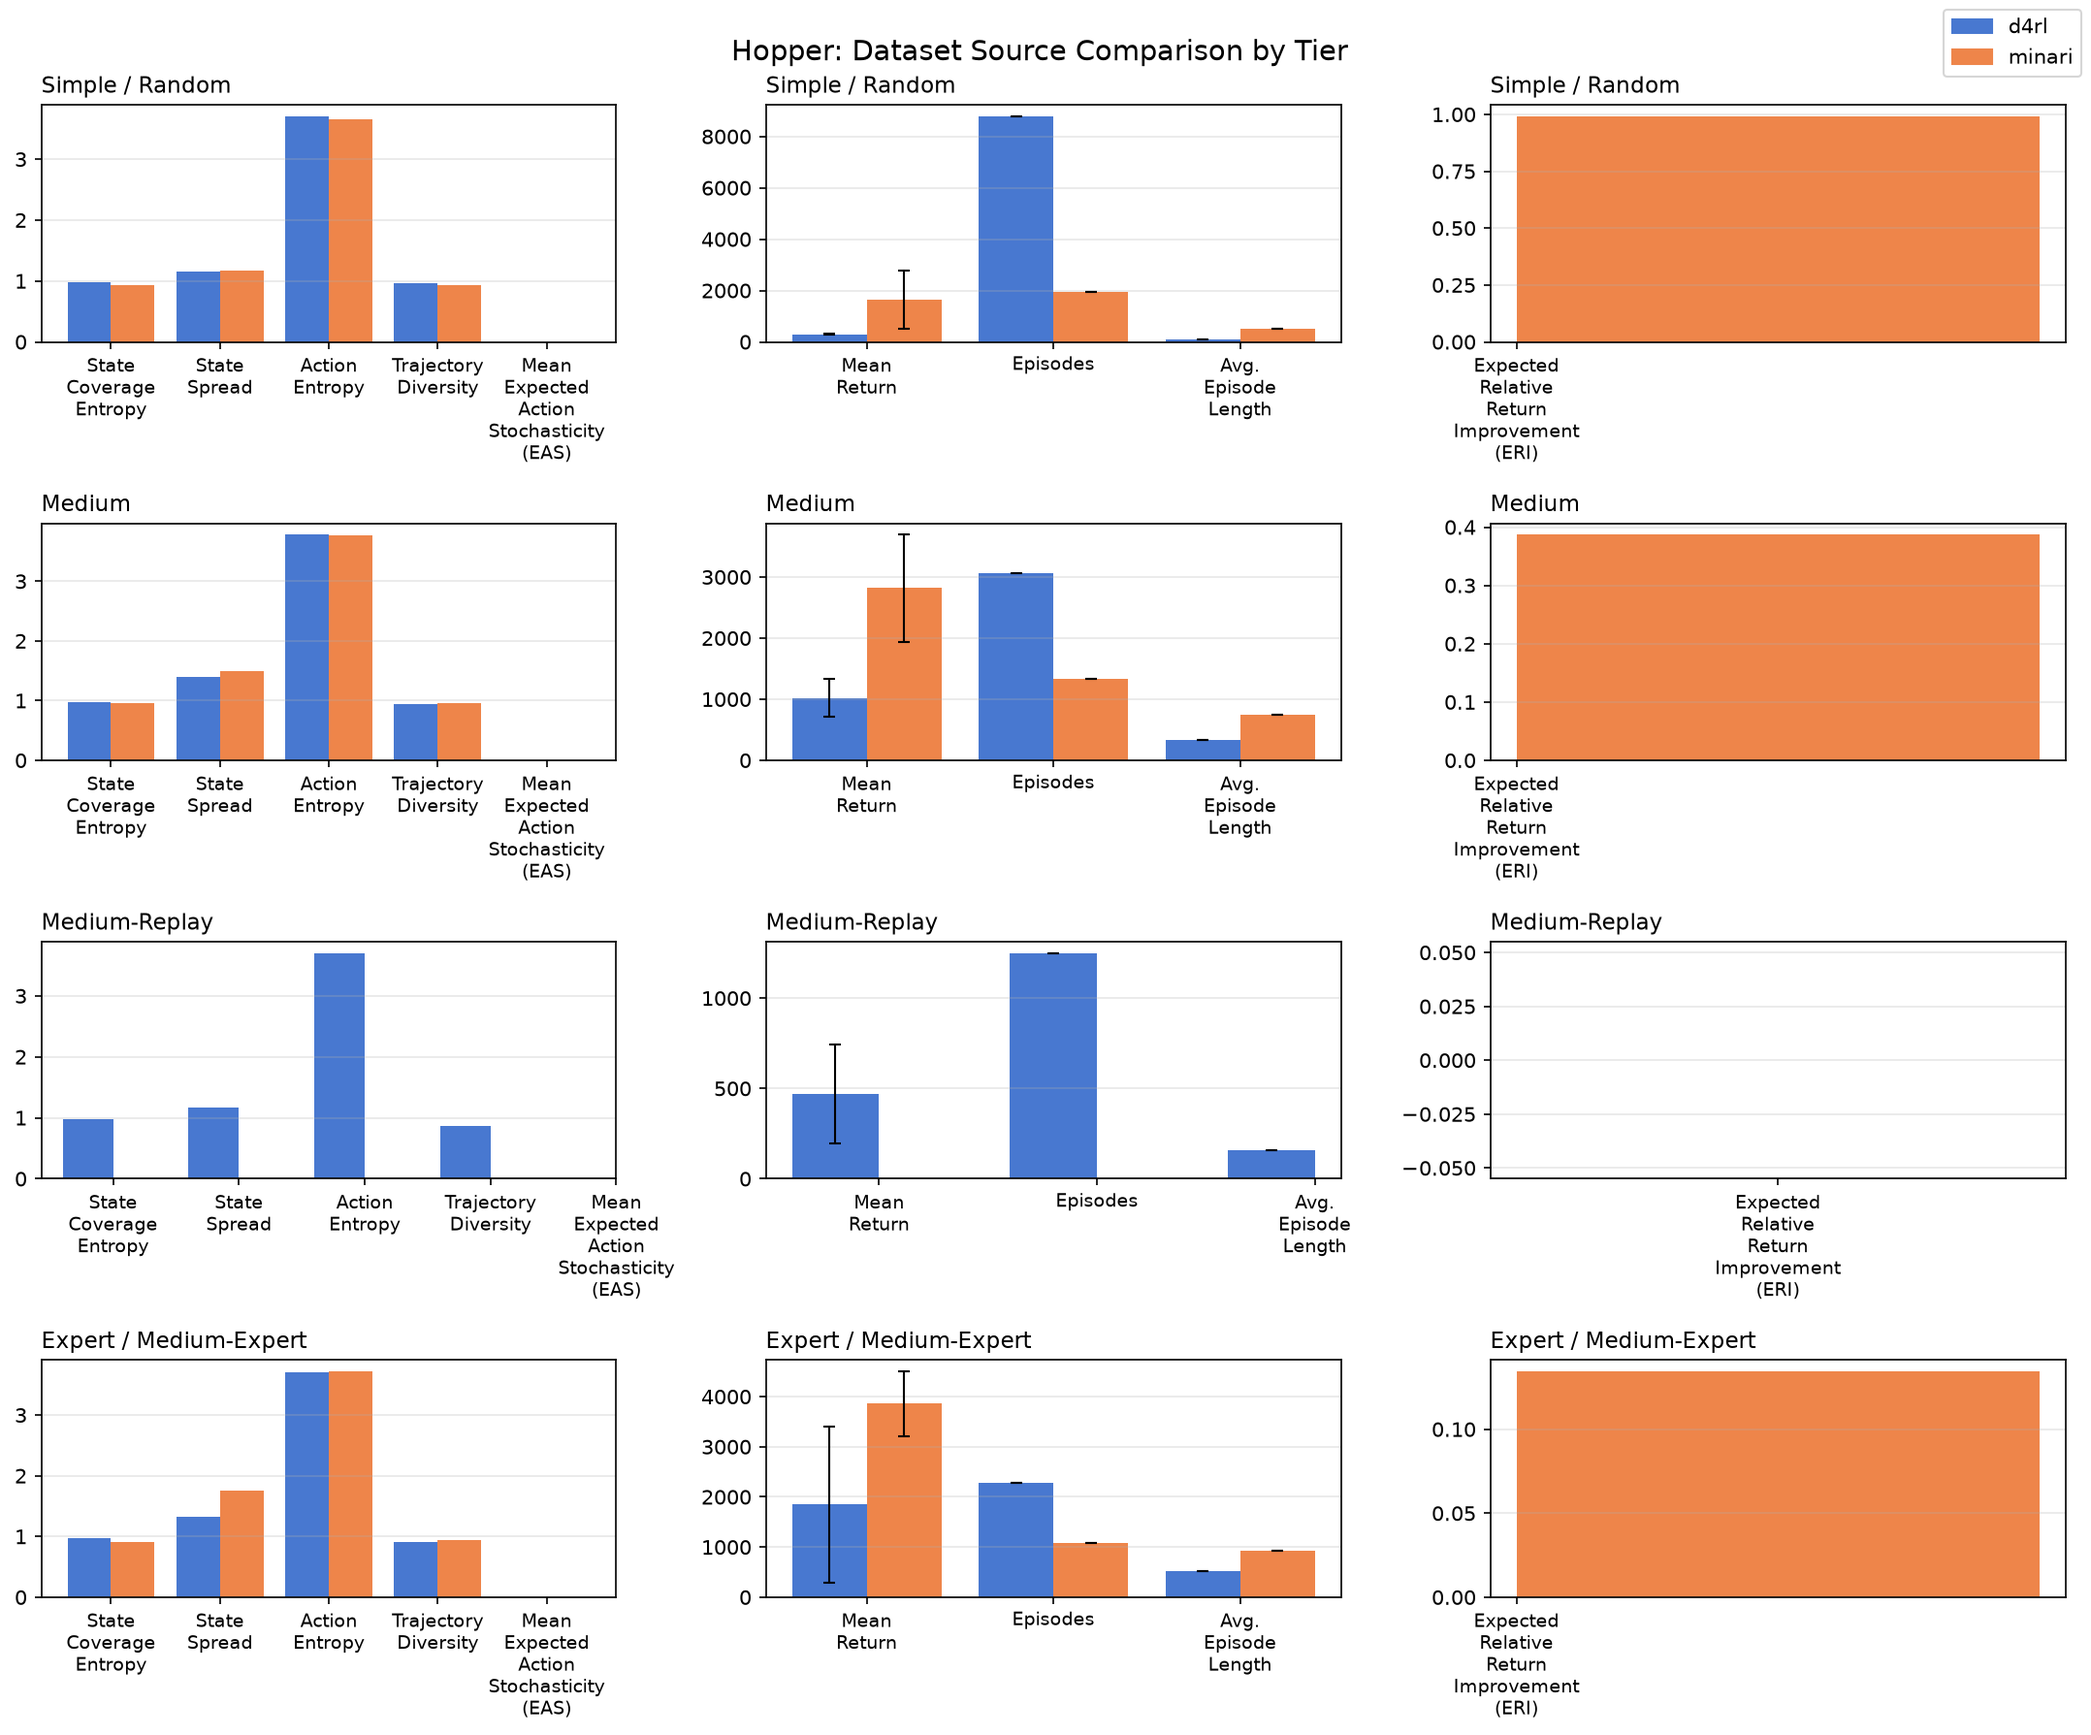
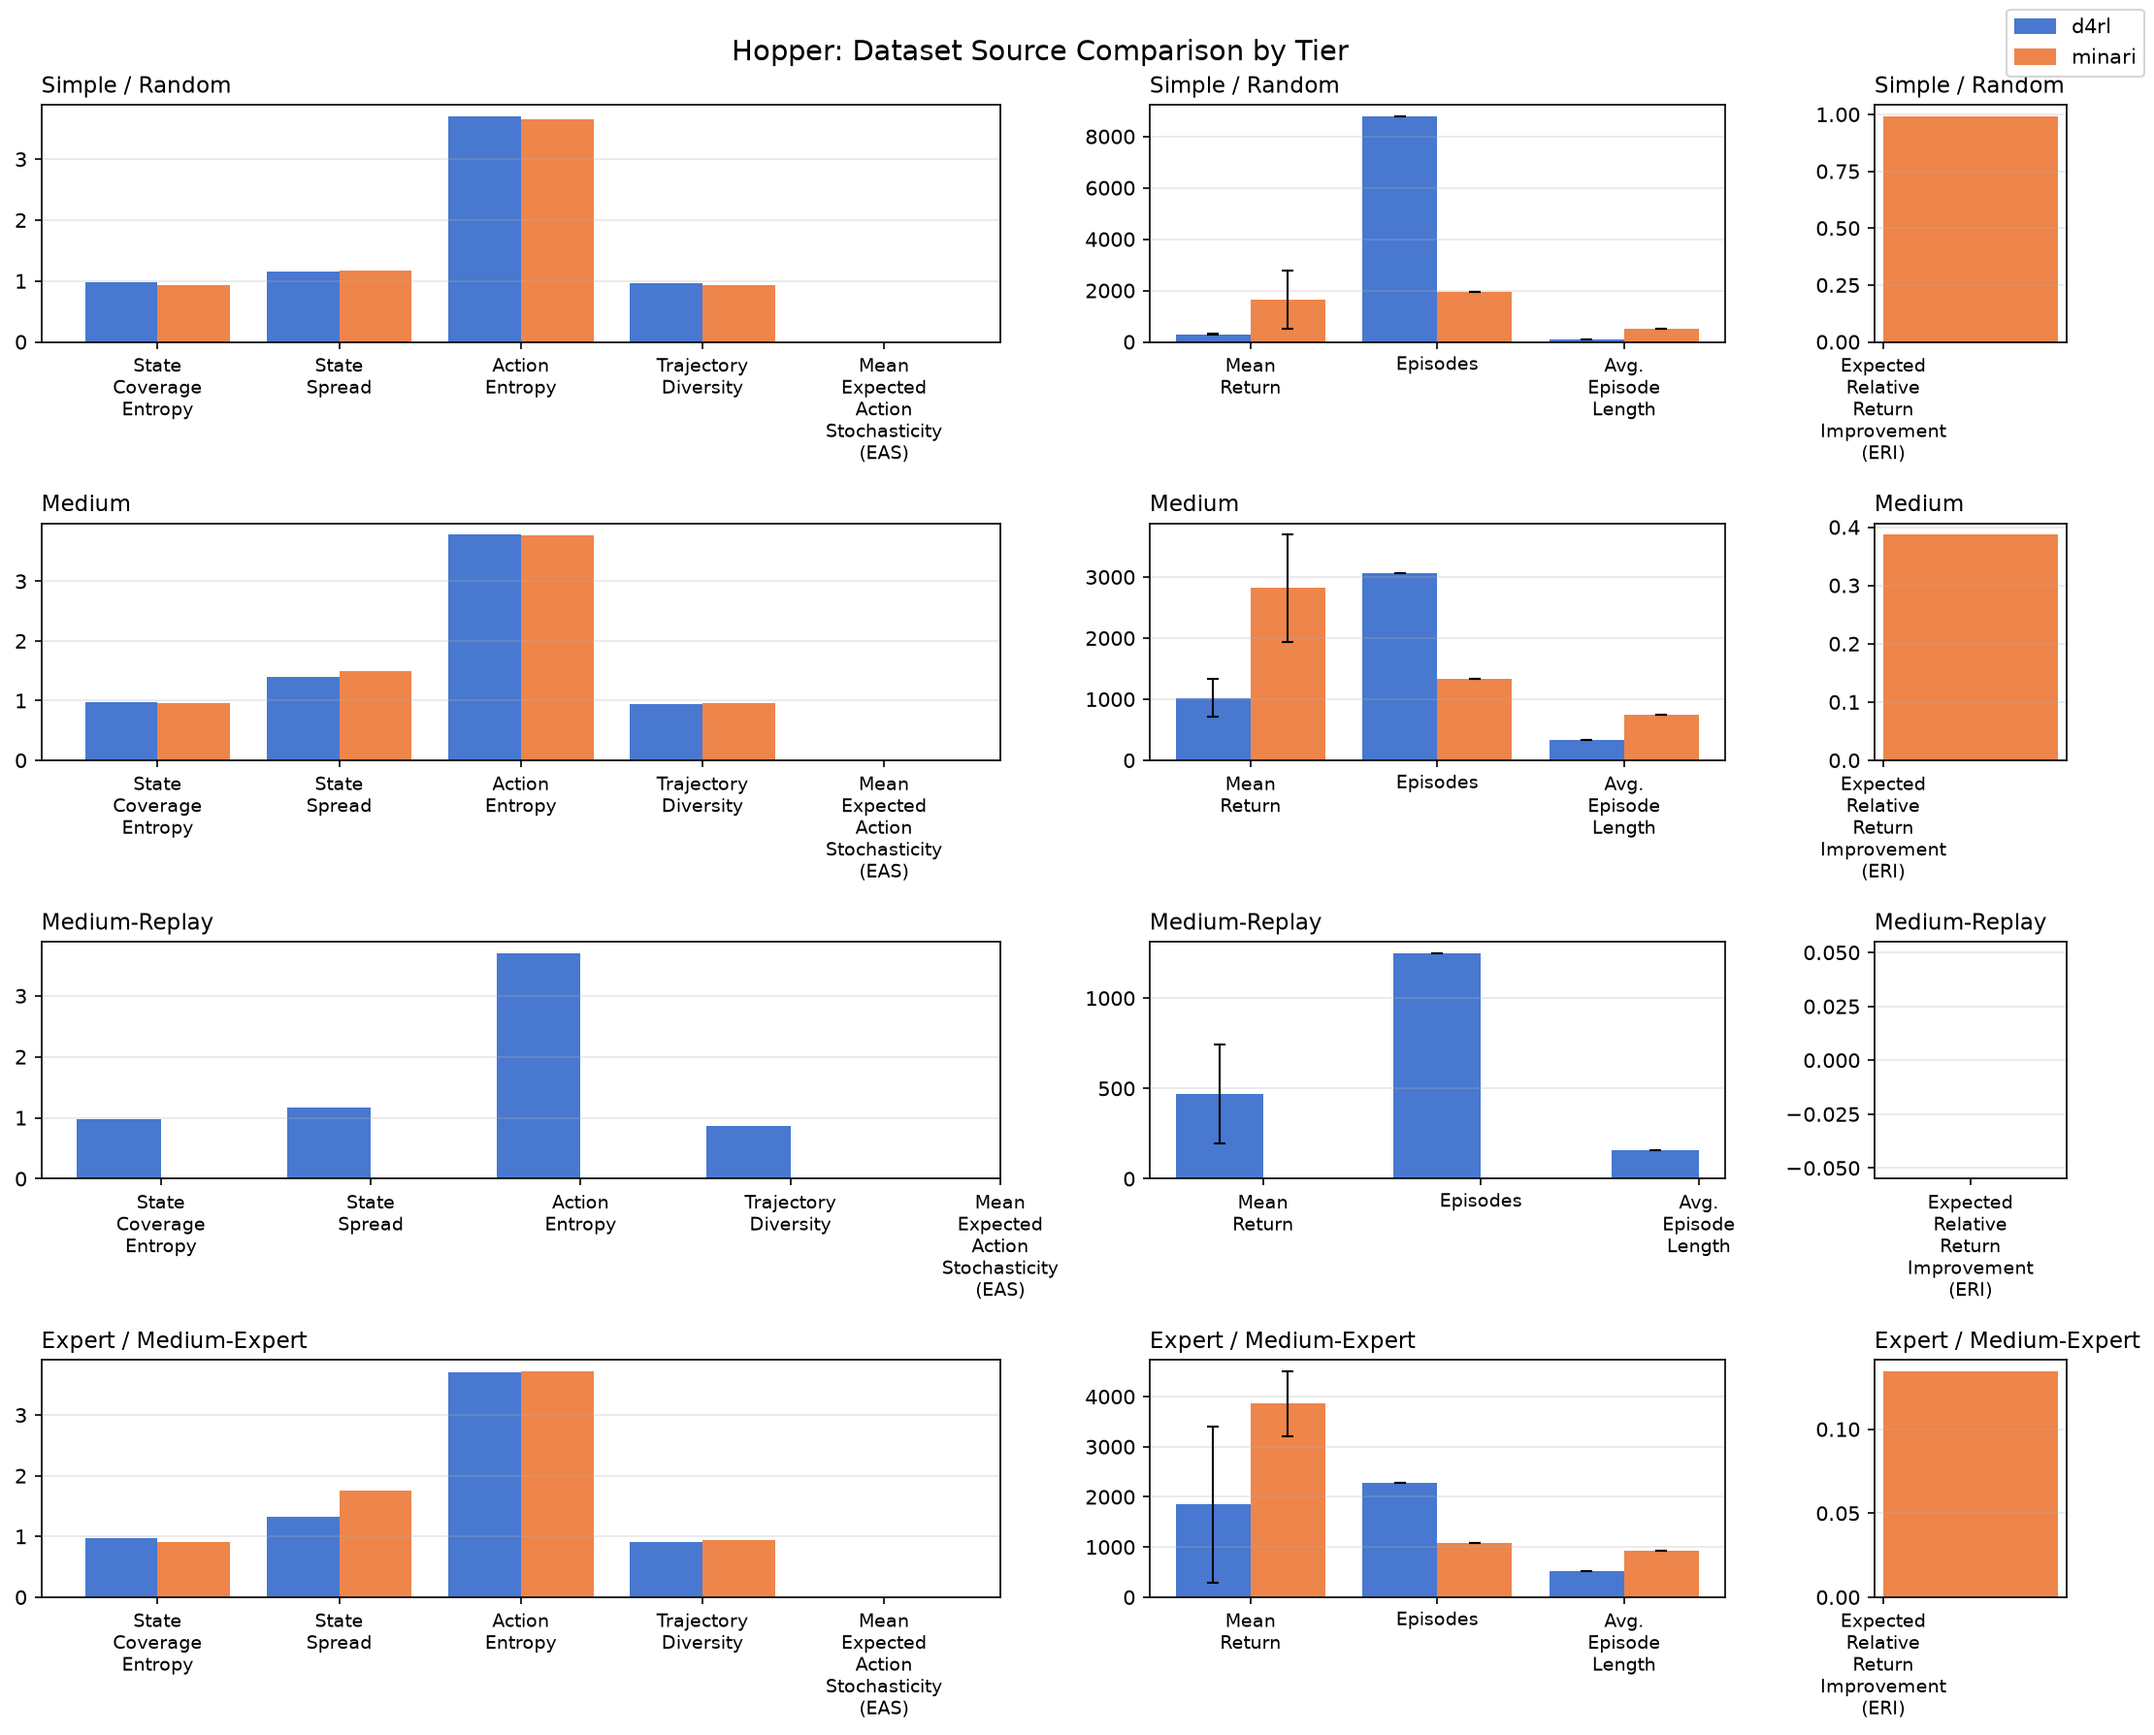
equal subplot size allocation for dataset soruce comparison

diff --git a/src/visualization/visualize_results.py b/src/visualization/visualize_results.py
@@ -1216,11 +1216,17 @@ def plot_dataset_source_comparison(df_profiles: pd.DataFrame, output_dir: str):
         if not groups:
             continue
 
+        # Column widths proportional to each panel's bar-category count, so
+        # a single-feature panel (META_RATIO_FEATURES) doesn't get stretched
+        # to the same width as the five-feature RADAR_METRICS panel — every
+        # bar slot ends up roughly the same width across panels.
+        panel_feature_counts = [len(RADAR_METRICS), len(
+            META_COUNT_FEATURES), len(META_RATIO_FEATURES)]
         fig, axes = plt.subplots(
             len(groups), 3,
-            figsize=(max(13.0, 1.6 * len(RADAR_METRICS) + 1.6 * len(META_COUNT_FEATURES)
-                     + 1.6 * len(META_RATIO_FEATURES)), 3.0 * len(groups)),
+            figsize=(max(13.0, 1.6 * sum(panel_feature_counts)), 3.0 * len(groups)),
             squeeze=False,
+            gridspec_kw={"width_ratios": panel_feature_counts},
         )
 
         for row_idx, group in enumerate(groups):
